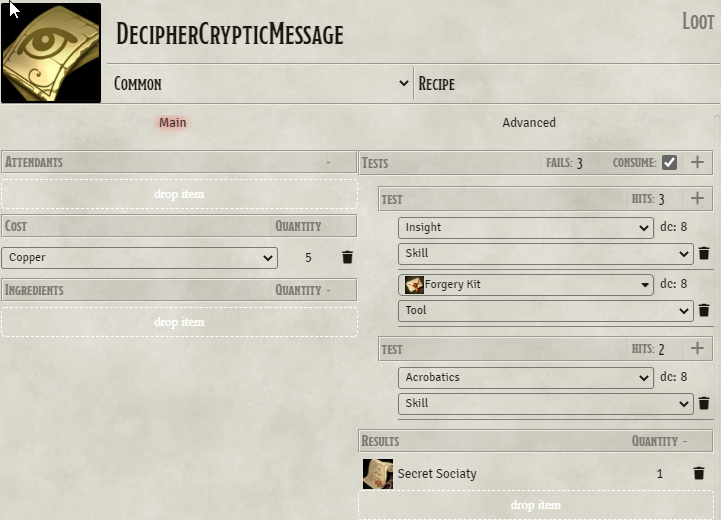
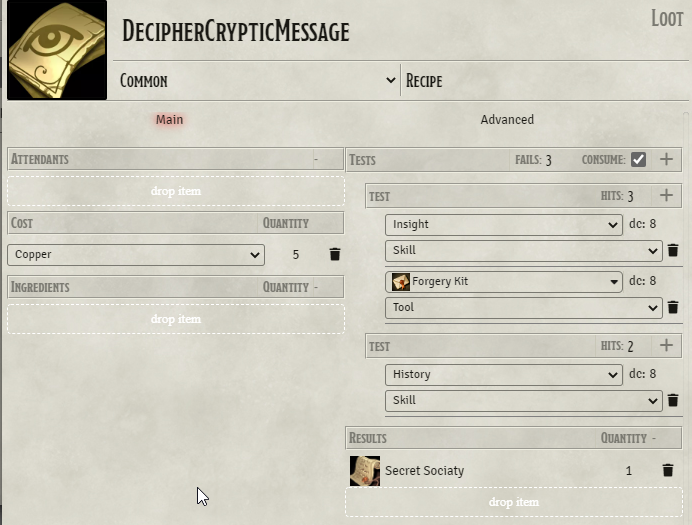
multi check + tool check

diff --git a/README.md b/README.md
@@ -143,8 +143,6 @@ While you can track your crafting this features enables a new purpose of this mo
 This module allows now also for tracking any downtime activity, running skillchallenges or quests.
 Everything is modelled by Recipes so a SkillChallenge or Quest is also only a Recipe
 
-![img.png](pictures/skillchallenge.png)
-
 ![img.png](pictures/skillchallenge2.png)
  
 Recipe can have Tests consisting of one or more TestSections.
@@ -161,6 +159,14 @@ There are up to 4 types of TestOptions.
 You can add multiple times the same type of TestOption for example to choose from diffrent skills.
 Your Recipe can fail if you reach the specified "fails" default is 1. If you set the fails to 0 your recipe can never fail.
 You can also specify if your costs will get consumed when your recipe fails.
+
+![img.png](pictures/skillchallenge.png)
+
+meaning:
+- you need 3 success in:insight skill dc 8 or forgery kit dc 8 
+- and thereafter 2 success in history
+- before you have 3 fails overall.
+
 ### 2.3.x system independent
 this module can now run on multiple systems, 
 it uses a unified system interface and an adaption layer module for the specific system to work though.
